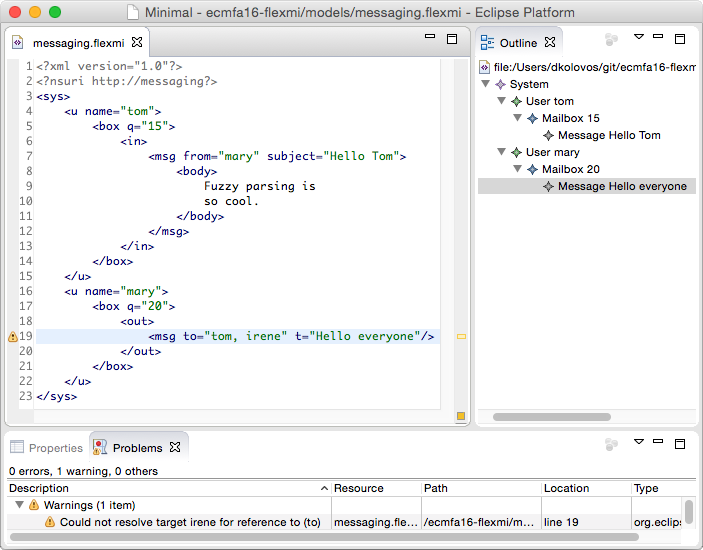
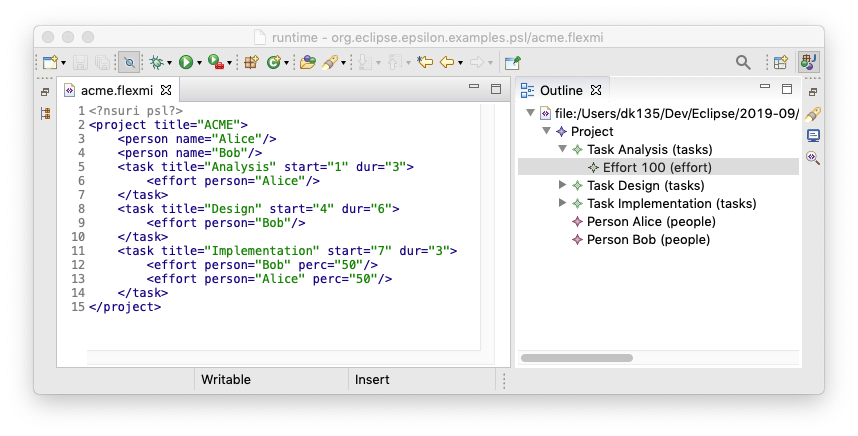
Updated Flexmi page

Changed region(s): [[0.0, 0.0, 1.0, 1.0], [0.0896, 0.3876, 0.1195, 0.4174]]

diff --git a/mkdocs/docs/doc/flexmi/index.md b/mkdocs/docs/doc/flexmi/index.md
@@ -1,74 +1,270 @@
 # Flexmi
 
-Flexmi is a **flexible, reflective textual syntax for creating models conforming to Ecore metamodels**. Flexmi is XML-based and offers features such as fuzzy matching of XML tags and attributes to Ecore class/feature names, support for embedding EOL expressions in models and for defining and instantiating model element templates. For example, the following XML document (`messaging.flexmi`):
+Flexmi (pronounced *flex-em-eye*) is a **flexible, reflective textual syntax for creating models conforming to Ecore metamodels**. Flexmi is XML-based and offers features such as fuzzy matching of XML tags and attributes to Ecore class/feature names, support for embedding EOL expressions in models and for defining and instantiating model element templates. For example, the following XML document (`acme.flexmi`):
 
 ```xml
-<?xml version="1.0"?>
-<?nsuri http://messaging?>
-<sys>
-  <u name="tom">
-    <box q="15">
-      <out>
-        <msg from="mary" subject="Hello Tom">
-          <body> 
-            Fuzzy parsing is
-            so cool.
-          </body>
-        </msg>
-      </out>
-    </box>
-  </u>
-  <u name="mary">
-    <box q="20">
-      <out>
-        <msg to="tom, mary" t="Hello everyone"/>
-      </out>
-    </box>
-  </u>
-</sys>
+<?nsuri psl?>
+<project title="ACME">
+  <person name="Alice"/>
+  <person name="Bob"/>
+  <task title="Analysis" start="1" dur="3">
+    <effort person="Alice"/>
+  </task>
+  <task title="Design" start="4" dur="6">
+    <effort person="Bob"/>
+  </task>
+  <task title="Implementation" start="7" dur="3">
+    <effort person="Bob" perc="50"/>
+    <effort person="Alice" perc="50"/>
+  </task>
+</project>
 ```
 
-is a valid instance of the Ecore metamodel (in Emfatic) below:
+is a valid instance of the Ecore metamodel (in Emfatic) below (`psl` stands for Project Scheduling Language):
 
 ```emf
-@namespace(uri="http://messaging", prefix="")
-package messaging;
+@namespace(uri="psl", prefix="")
+package psl;
 
-class System {
-  val User[*] users;
+class Project {
+  attr String name;
+  attr String description;
+  val Task[*] tasks;
+  val Person[*] people;
 }
 
-class User {
-  id attr String name;
-  val Mailbox mailbox;
+class Task {
+  attr String title;
+  attr int start;
+  attr int duration;
+  val Effort[*] effort;
 }
 
-class Mailbox {
-  attr int quota;
-  val Message[*] incoming;
-  val Message[*] outgoing;
+class Person {
+  attr String name;
+  ref Skill[*] skills;
 }
 
-class Message {
-  attr String subject;
-  attr String body;
-  ref User from;
-  ref User[*] to;
+class Effort {
+  ref Person person;
+  attr int percentage = 100;
+}
+
+class Skill {
+  attr String name;
 }
 ```
 
 ## Getting started
 
--   Create a text file named `messaging.emf` in your workspace and place
-    the Emfatic content above in it.
+-   Create a text file named `psl.emf` in your workspace and place the Emfatic content above in it.
 -   Convert it into Ecore and register the produced Ecore metamodel
-    (`messaging.ecore`) as shown
+    (`psl.ecore`) as shown
     [here](../reflective-emf-tutorial).
--   Create a new text file named `messaging.flexmi` and place the XML
-    content above in it.
+-   Create a new text file named `acme.flexmi` and place the XML content above in it.
 -   The result should look like the screenshot below.
 
 ![](screenshot.png)
+
+## Fuzzy Parsing
+
+The Flexmi parser uses fuzzy matching to map the tags in the XML document to instances of EClasses in the target metamodel. In Flexmi, attributes and non-containment references are captured using XML attributes. Multiple values can be captured in a single XML attribute as comma-delimited strings as shown below.
+
+```xml
+<?nsuri psl?>
+<_>
+  <person name="Alice" skills="Java, HTML"/>
+  <skill name="Java"/>
+  <skill name="HTML"/>
+</_>
+```
+
+Containment references are captured using XML element containment. If an XML element has attributes, the Flexmi parser will compare its tag against EClass/EReference names expected in the context and choose the best match. For example, when it encounters the `<person>` element below, knowing that it is already in the context of `Project` it will match the name `person` against the names of the containment references of `Project` (`tasks`, `people`) and (all the sub-types of) their types (`Person`, `Task`) and will decide that the best match for it is `Person`.
+
+```xml
+<?nsuri psl?>
+<project title="ACME">
+  <person name="Alice"/>
+  ...
+</project>
+```
+
+As such, it will create an instance of `Person` and will then try to find a suitable containment reference for it (`people`). If there were multiple containment references of type `Person` in class `Project`, we could help the Flexmi parser by either using the name of the target reference instead or `person`, or by using an empty container element as follows.
+
+```xml
+<?nsuri psl?>
+<project title="ACME">
+  <people>
+    <person name="Alice"/>
+  </people>
+</project>
+```
+
+### Non-Containment Reference Resolution
+
+To resolve non-containment references, Flexmi needs target elements to have some kind of ID. If a class has an EAttribute marked as `id`, Flexmi will use that to identify its instances, otherwise, it will use the value of the `name` attribute, if present. Fully-qualified ID paths, separated by `.` are also supported.
+
+### Long Attribute Values
+
+XML elements can also be used instead of XML attributes to capture long/multiline EAttributes. For example, we can use a `<description>` nested element instead of an attribute as below.
+
+```xml
+<?nsuri psl?>
+<project title="ACME">
+  <description>
+    Lorem ipsum dolor sit amet, 
+    consectetur adipiscing elit, 
+    sed do eiusmod tempor incididunt 
+    ut labore et dolore magna aliqua. 
+  </description>
+</project>
+```
+
+To keep very long values out of Flexmi models altogether, appending an `_` to the name of an attribute will instruct the Flexmi parser to look for a file with that name and parse its content as the value of the attribute as shown below.
+
+```xml
+<?nsuri psl?>
+<project title="ACME" description_="readme.txt">
+</project>
+```
+
+### Attribute Assignment
+
+The Flexmi parser uses an implementation of the [Hungarian algorithm](https://en.wikipedia.org/wiki/Hungarian_algorithm) to decide the best match of XML attribute names to EAttibute/(non-containment) EReference names.
+
+## Executable Attributes
+
+Prepending `:` to the name of an attribute instructs the Flexmi parser to interpret its value as an executable [EOL](../eol) expression instead of a literal value. Also, Flexmi supports attaching a `:var` attribute to XML elements, to declare local variables that can be used in EOL expressions.
+
+For example, in the Flexmi model below, the `Design` task is assigned to a local variable named `design`, which is then used to compute the value of the `start` time of the implementation task. 
+
+```xml
+<?nsuri psl?>
+<project title="ACME">
+  <person name="Alice"/>
+  <person name="Bob"/>
+  <task title="Analysis" start="1" dur="3">
+    <effort person="Alice"/>
+  </task>
+  <task title="Design" start="4" dur="6" :var="design">
+    <effort person="Bob"/>
+  </task>
+  <task title="Implementation" :start="design.start + design.duration + 1" dur="3">
+    <effort person="Bob" perc="50"/>
+    <effort person="Alice" perc="50"/>
+  </task>
+</project>
+```
+
+You can also use `:var` and EOL attributes to refer to model elements without using names/ids as identifiers. For example, in the version, below, `Alice` is attached to the local variable name `alice`, which is then used in the `:person` reference of the second effort of the `Implementation` task.
+
+```xml
+<?nsuri psl?>
+<project title="ACME">
+  <person name="Alice" :var="alice"/>
+  <person name="Bob"/>
+  <task title="Analysis" start="1" dur="3">
+    <effort person="Alice"/>
+  </task>
+  <task title="Design" start="4" dur="6" :var="design">
+    <effort person="Bob"/>
+  </task>
+  <task title="Implementation" :start="design.start+design.duration+1" dur="3">
+    <effort person="Bob" perc="50"/>
+    <effort :person="alice" perc="50"/>
+  </task>
+</project>
+```
+
+## Inlcuding and Importing other Flexmi Models
+
+Flexmi supports the `<?import other.flexmi?>` and `<?include other.flexmi?>` processing instructions. `import` creates a new resource for `other.flexmi` while `include` parses the contents of `other.flexmi` as if they were embedded in the Flexmi model that contains the `include` processing instruction.
+
+## Instantiating Types from Multiple Ecore Metamodels
+
+Multiple `<?nsuri metamodeluri?>` processing instructions can be used in the preamble of a Flexmi model, allowing it to instantiate multiple Ecore metamodels. However, in case of name clashes between them, there's no good way for disambiguation.
+
+## Models with Multiple Root Elements
+
+If you need to have multiple top-level elements in your model, you can add them under a `<_>` root element, which has no other semantics.
+
+## Reusable Templates
+
+Flexmi supports defining reusable templates through the reserved `<:template>` XML tag. For example, when designing one-person projects where all tasks take place in sequence, we can omit all the repetitive `<effort>` elements that refer to the same person, and we can automate the calculation of the start date of each task using a `simpletask` template, as shown below.
+
+```xml
+<?nsuri psl?>
+<_>
+  <project title="ACME">
+    <person name="Alice"/>
+    <simpletask title="Analysis" dur="3"/>
+    <simpletask title="Design" dur="3"/>
+    <simpletask title="Implementation" dur="6"/>
+  </project>
+  
+  <:template name="simpletask">
+    <content>
+      <task :start="Task.all.indexOf(self).asVar('index') == 0 ? 1 : Task.all.get(index-1).asVar('previous').start + previous.duration">
+        <effort :person="Person.all.first()"/>
+      </task>
+    </content>
+  </:template>
+</_>
+```
+
+### Parameters
+
+Flexmi templates also support parameters, which can be used to configure the content they produce when they are invoked. An example is shown below:
+
+```xml
+<?nsuri psl?>
+<_>
+  <project title="ACME">
+    <person name="Alice"/>
+    <design dur="3" person="Alice"/>
+  </project>
+  
+  <:template name="design">
+    <parameter name="person"/>
+    <content>
+      <task name="Design">
+        <effort person="${person}"/>
+      </task>
+    </content>
+  </:template>
+</_>
+```
+
+### Dynamic Templates and Slots
+
+To further customise the content that Flexmi templates produce, one can use an [EGL](../egl) template that produces XML as the value of the `<content>` element of the template, by setting it's language to EGL as shown below. Also Flexmi supports a `<:slot>` element in the content of templates, which specifies where any nested elements of the caller should be placed in the produced XML as shown below.
+
+```xml
+<?nsuri psl?>
+<_>
+  <project title="ACME">
+    <person name="Alice"/>
+    <longtask title="Implementation" years="2">
+      <effort person="Alice"/>
+    </longtask>
+  </project>
+  
+  <:template name="longtask">
+    <parameter name="years"/>
+    <content language="EGL">
+      <![CDATA[
+      <task duration="[%=years.asInteger()*12%]">
+        <:slot/>
+      </task>
+      ]]>
+    </content>
+  </:template>
+</_>
+```
+
+### Reusing Templates in Different Flexmi Models
+
+Templates can be stored in separate Flexmi files and be imported from different models using Flexmi's `<?include ?>` processing instruction.
 
 ## Use in Epsilon and Java
 
@@ -80,10 +276,28 @@ resourceSet.getResourceFactoryRegistry().
   getExtensionToFactoryMap().put("flexmi", 
     new FlexmiResourceFactory());
 Resource resource = resourceSet.createResource
-  (URI.createFileURI("/../messaging.flexmi"));
+  (URI.createFileURI("/../acme.flexmi"));
 resource.load(null);
 ```
 
+## Converting to XMI
+
+You can convert a Flexmi model to standard XMI (with no templates, executable attributes etc.) by right-clicking on it in the Project Explorer view and selecting `Generate XMI`.
+
+Converting a Flexmi model to XMI is not supported as there's no unique mapping in this direction.
+
+## Philosophy
+
+Flexmi was originally developed as a quick and dirty way to type in EMF models without having to define an Xtext grammar or adhere to the rigid naming rules of XMI or HUTN.
+
 ## Limitations
 
-Flexmi resources can't be saved programmatically (i.e. trying to call `resource.save(...)` will do nothing).
+- Flexmi resources can't be saved programmatically (i.e. trying to call `resource.save(...)` will do nothing).
+- There is no code completion in the Flexmi editor at the moment.
+
+## Resources
+
+- More examples of using Flexmi can be found in projects containing `flexmi` in their name, under the [examples folder](https://git.eclipse.org/c/epsilon/org.eclipse.epsilon.git/tree/examples) of Epsilon's Git repository.
+- Flexmi is further described in the following papers:
+    - [Towards Flexible Parsing of StructuredTextual Model Representations](http://ceur-ws.org/Vol-1694/FlexMDE2016_paper_3.pdf)
+    - [Towards a Modular and Flexible Human-UsableTextual Syntax for EMF Models](http://ceur-ws.org/Vol-2245/flexmde_paper_3.pdf)
